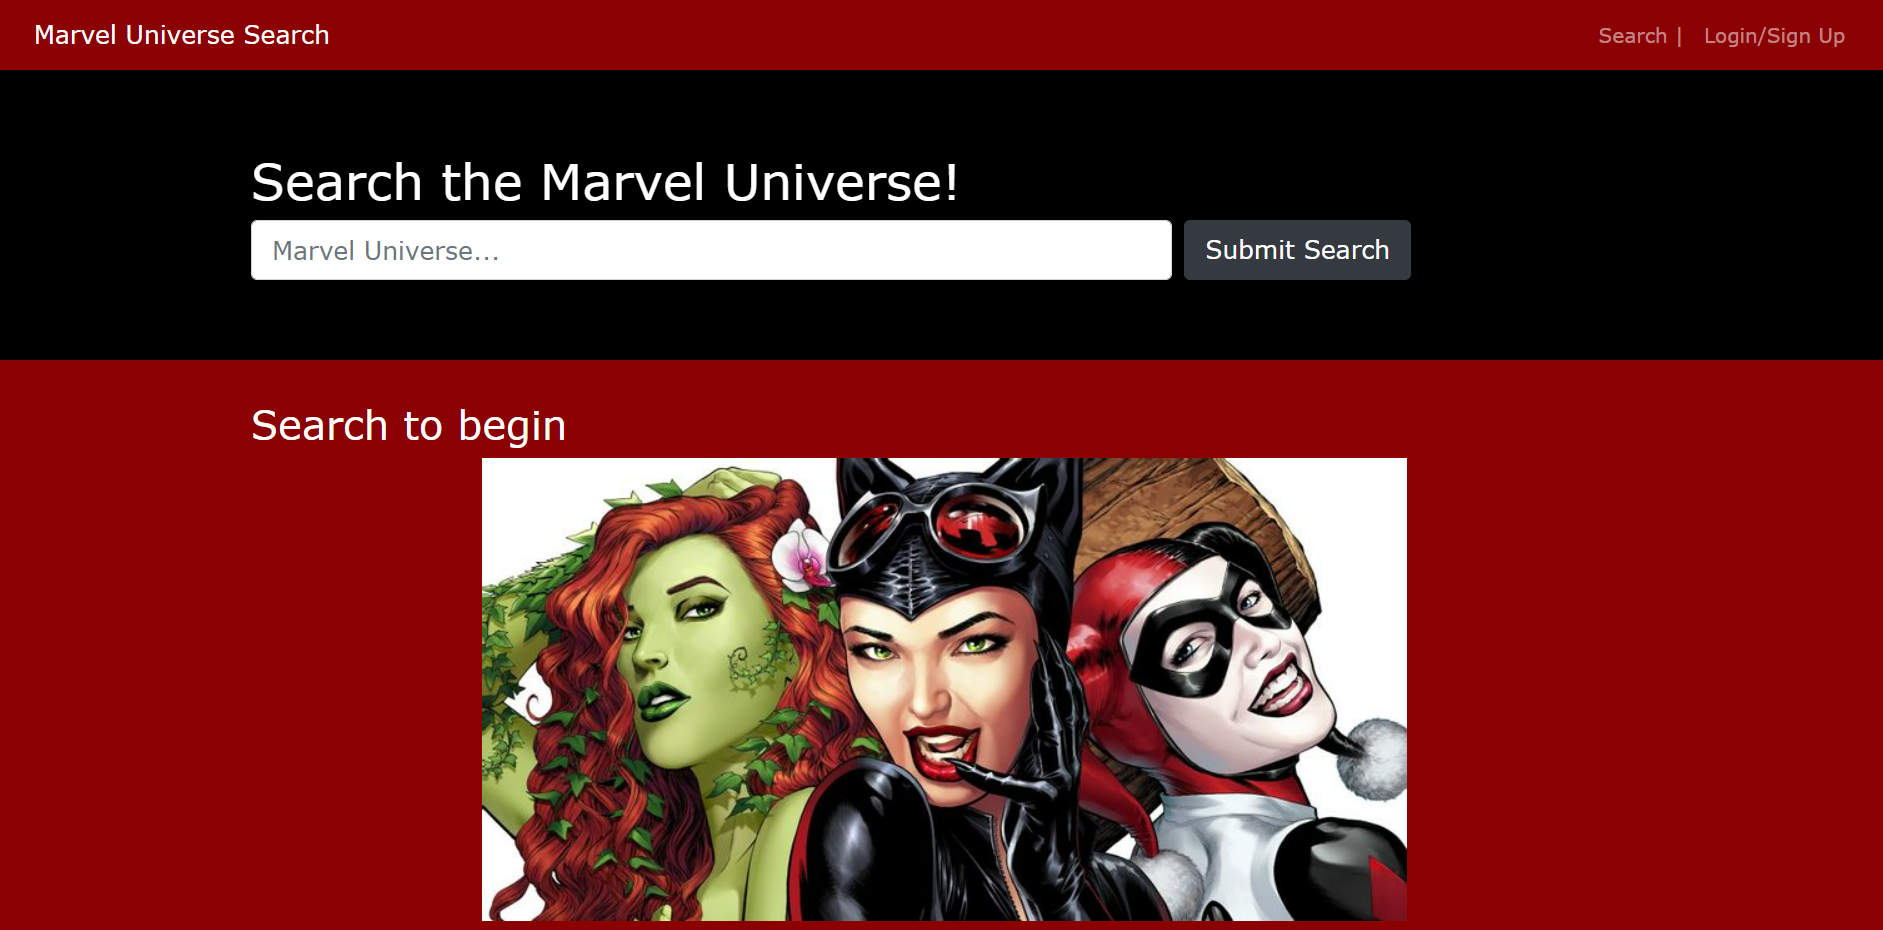
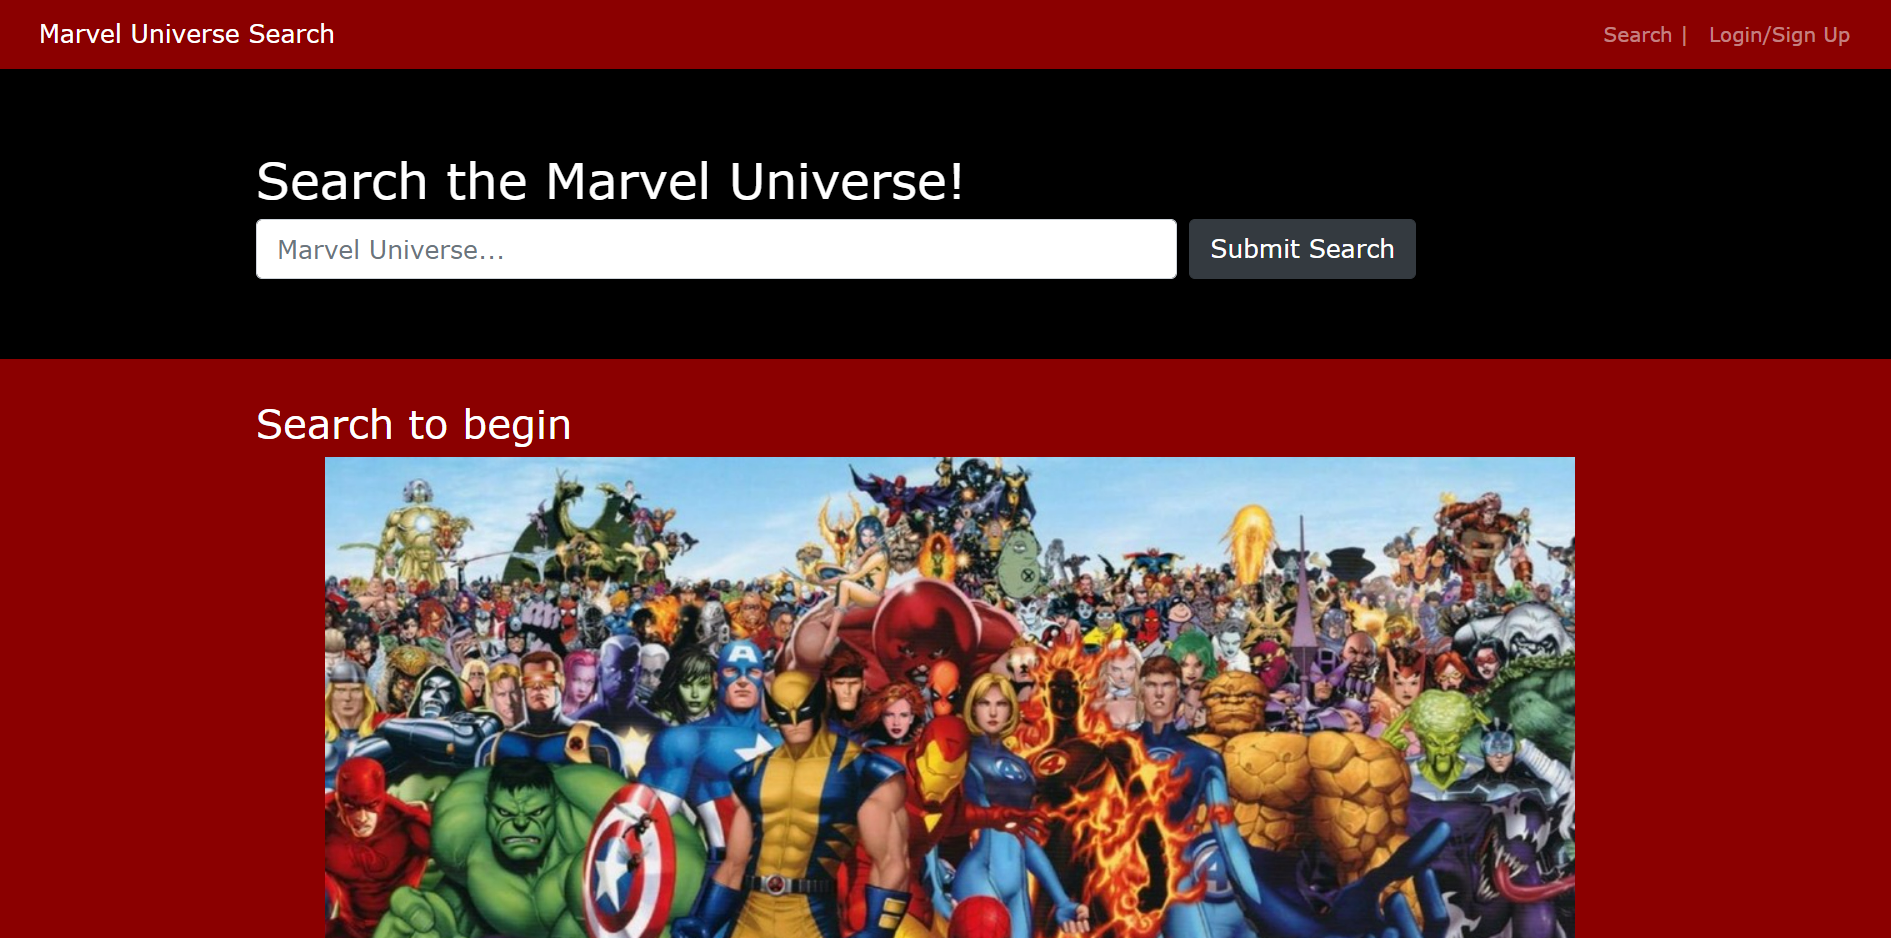
updated photo and syntax

diff --git a/client/src/pages/SearchBooks.js b/client/src/pages/SearchBooks.js
@@ -10,7 +10,7 @@ import {
 } from "react-bootstrap";
 
 import Auth from "../utils/auth";
-import { searchGoogleBooks } from "../utils/API";
+import { searchMarvelComics } from "../utils/API";
 import { saveBookIds, getSavedBookIds } from "../utils/localStorage";
 import { SAVE_BOOK } from "../utils/mutations";
 import { useMutation } from "@apollo/react-hooks";
@@ -45,7 +45,7 @@ const SearchBooks = () => {
     }
 
     try {
-      const response = await searchGoogleBooks(searchInput);
+      const response = await searchMarvelComics(searchInput);
 
       if (!response.ok) {
         throw new Error("something went wrong!");

diff --git a/client/src/utils/API.js b/client/src/utils/API.js
@@ -1,3 +1,3 @@
-export const searchGoogleBooks = (query) => {
-  return fetch(`https://gateway.marvel.com/v1/public/comics?apikey=1234&hash=97a0ce4758cb2a37f84f38a6943e1bf5`);
+export const searchMarvelComics = (query) => {
+  return fetch(`https://www.googleapis.com/books/v1/volumes?q=${query}`);
 };

diff --git a/client/public/index.html b/client/public/index.html
@@ -25,7 +25,7 @@
 </body>
 
 <footer>
-  <img src="./trio.jpg" alt="MAC girls"/>
+  <img src="./marvel.jpg" alt="MARVEL UNIVERSE"/>
   <br>
   Created by MAC developers:
   <br>
